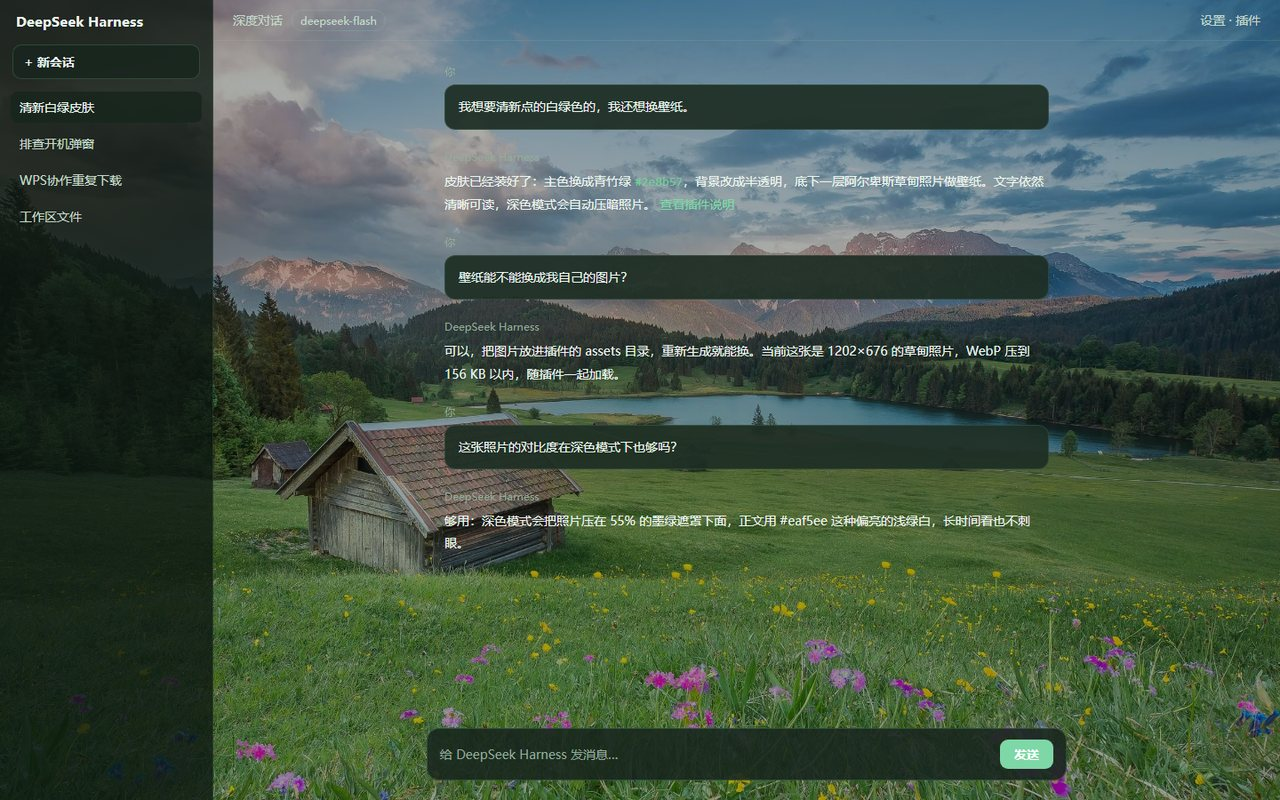
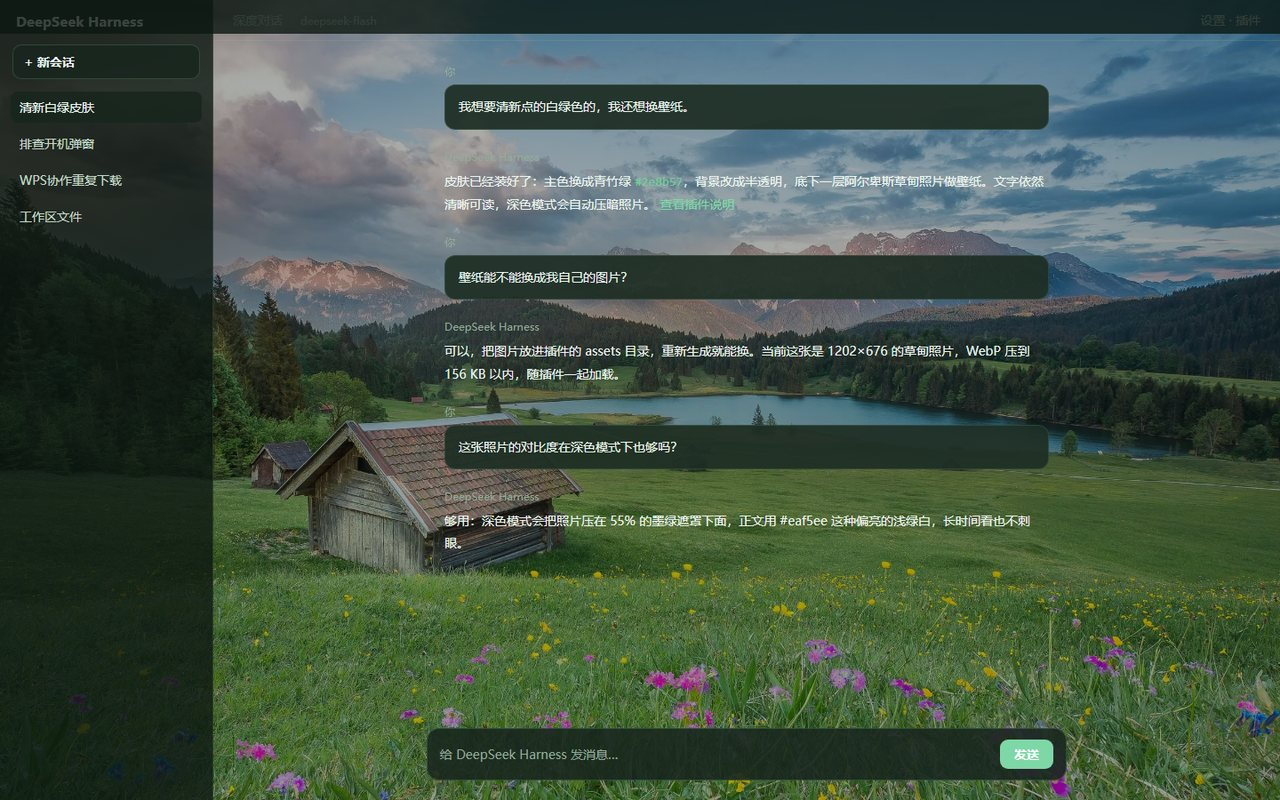
feat: 跟随系统配色 + 顶栏与侧栏同层磨砂 + 品牌字上色开关 (1.6.0)

Changed region(s): [[0.1562, 0.0, 1.0, 0.0625], [0.0, 0.0, 0.125, 0.0625]]

diff --git a/client.js b/client.js
@@ -94,6 +94,10 @@ body[data-ds-dark-theme] .fgw-video-veil { background: rgba(6,12,9,var(--fgw-vei
    own frosted panel so navigation text stays readable. */
 body[data-fresh-skin='on'] [class*='_sidebarCol'] { background: var(--fgw-sidebar, rgba(250,253,250,0.62)) !important; }
 body[data-ds-dark-theme][data-fresh-skin='on'] [class*='_sidebarCol'] { background: var(--fgw-sidebar, rgba(13,24,18,0.80)) !important; }
+/* Windows paints the titlebar strip from the sidebar fill, so the same tint keeps
+   the top bar and the sidebar reading as one surface instead of two panels. */
+body[data-fresh-skin='on'] [class*='_frame']::before { background: var(--fgw-sidebar, rgba(250,253,250,0.62)) !important; }
+body[data-ds-dark-theme][data-fresh-skin='on'] [class*='_frame']::before { background: var(--fgw-sidebar, rgba(13,24,18,0.80)) !important; }
 /* Brand marks: the home pixel whale is a canvas painted from its computed
    colour, the sidebar lockup is inline SVG — both follow the theme variables. */
 body[data-fresh-skin='on'] canvas[data-home-whale] {
@@ -104,16 +108,12 @@ body[data-fresh-skin='on'] [class*='_fish'] svg,
 body[data-fresh-skin='on'] [class*='_fish'] path {
   fill: var(--fgw-whale, currentColor) !important;
 }
-body[data-fresh-skin='on'] [class*='_brandMark'] svg,
-body[data-fresh-skin='on'] [class*='_brandMark'] path,
-body[data-fresh-skin='on'] [class*='_brandName'],
-body[data-fresh-skin='on'] [class*='_brandIdentity'],
-body[data-fresh-skin='on'] [class*='_titleGroup'] {
+/* Optional: tint the sidebar wordmark. Off by default — the lockup also carries
+   the HARNESS badge, which would be painted with the same colour and vanish. */
+body[data-fgw-brand-tint='on'] [class*='_brandName'],
+body[data-fgw-brand-tint='on'] [class*='_brandIdentity'],
+body[data-fgw-brand-tint='on'] [class*='_titleGroup'] {
   color: var(--fgw-brandtext, inherit) !important;
-}
-body[data-fresh-skin='on'] [class*='_brandMark'] svg path,
-body[data-fresh-skin='on'] [class*='_brandIdentity'] svg path {
-  fill: currentColor !important;
 }
 /* Quick-launch chips docked right above the composer. */
 .fgw-dock {
@@ -156,6 +156,7 @@ body[data-fresh-skin='on'] [class*='_brandIdentity'] svg path {
 .fgw-main { flex: 1; min-width: 0; }
 .fgw-title { font-size: 14px; line-height: 20px; }
 .fgw-actions { display: flex; flex-wrap: wrap; align-items: center; gap: 8px; }
+.fgw-inline { padding-left: 0; }
 .fgw-btn {
   font: inherit; font-size: 12px; line-height: 18px; padding: 5px 12px; border-radius: 8px;
   cursor: pointer; color: var(--dsw-alias-label-primary);
@@ -230,6 +231,15 @@ function withAlpha(color, alpha) {
   const g = parseInt(digits.slice(2, 4), 16)
   const b = parseInt(digits.slice(4, 6), 16)
   return `rgba(${r},${g},${b},${ratio})`
+}
+
+/** Pick readable text for the current wallpaper: dark on a light photo, light on
+    a dark one, so the "follow the system" palette never ends up unreadable. */
+function contrastText(darkMode) {
+  if (darkMode) return '#eef7f1'
+  const sample = runtime.derived && runtime.derived.sample
+  const luminance = sample ? Number(sample.luminance ?? sample.l ?? 0.82) : 0.82
+  return luminance > 0.52 ? '#0f1c14' : '#f4fbf6'
 }
 
 /** Palette for the quick-launch chips: derived from the wallpaper when possible. */
@@ -401,6 +411,7 @@ function defaults() {
     veil: DEFAULT_VEIL,
     autoVeil: false,
     palette: 'theme',
+    brandTint: false,
     colors: { brand: '', sidebar: '', bubble: '', text: '', whale: '', wordmark: '' },
     alpha: { sidebar: 62, bubble: 88 },
     chips: { enabled: true, items: [] },
@@ -469,6 +480,15 @@ function buildTokens(next) {
   const colors = next.colors || {}
   const alpha = next.alpha || {}
 
+  if (next.palette === 'system') {
+    // Follow whatever the host theme is: neutral frosted surfaces over the
+    // wallpaper and a text colour picked for contrast, no colour cast of ours.
+    tokens['--dsw-alias-bg-layer-1'] = { light: 'rgba(255,255,255,0.60)', dark: 'rgba(18,24,20,0.66)' }
+    tokens['--dsw-alias-bg-layer-2'] = { light: 'rgba(255,255,255,0.78)', dark: 'rgba(22,30,25,0.80)' }
+    tokens['--dsw-alias-bg-layer-3'] = { light: 'rgba(255,255,255,0.90)', dark: 'rgba(28,38,32,0.90)' }
+    tokens['--dsw-alias-label-primary'] = { light: contrastText(false), dark: '#eef7f1' }
+  }
+
   if (sample) {
     tokens['--dsw-alias-brand-primary'] = { light: sample.brand, dark: sample.brandDark }
     tokens['--dsw-alias-state-business-primary'] = { light: sample.brand, dark: sample.brandDark }
@@ -522,12 +542,14 @@ function applyState(next) {
 
   if (colors.whale) root.style.setProperty('--fgw-whale', colors.whale)
   else root.style.removeProperty('--fgw-whale')
-  if (colors.wordmark) root.style.setProperty('--fgw-brandtext', colors.wordmark)
+  if (next.brandTint && colors.wordmark) root.style.setProperty('--fgw-brandtext', colors.wordmark)
   else root.style.removeProperty('--fgw-brandtext')
 
   const body = document.body
   if (body) {
     body.dataset.freshSkin = 'on'
+    if (next.brandTint && colors.wordmark) body.dataset.fgwBrandTint = 'on'
+    else delete body.dataset.fgwBrandTint
     if (next.source.kind === 'video') body.dataset.fgwVideo = 'on'
     else delete body.dataset.fgwVideo
   }
@@ -629,7 +651,7 @@ function sampleSource(next) {
       analyzePixels(video).then((sample) => {
         runtime.sample = sample
         runtime.derived = paletteFromSample(sample)
-        if (state && (state.autoVeil || state.palette === 'image')) applyState(state)
+        if (state && (state.autoVeil || state.palette === 'image' || state.palette === 'system')) applyState(state)
       })
     }
     // Drawing a video before it has a frame yields black, so wait for data.
@@ -648,7 +670,7 @@ function sampleSource(next) {
     analyzePixels(image).then((sample) => {
       runtime.sample = sample
       runtime.derived = paletteFromSample(sample)
-      if (state && (state.autoVeil || state.palette === 'image')) applyState(state)
+      if (state && (state.autoVeil || state.palette === 'image' || state.palette === 'system')) applyState(state)
     })
   }
   image.src = url[1]
@@ -934,7 +956,9 @@ window.__ModuleLoader__.load({
         ),
       )
 
-      const colorEnabled = current.palette === 'custom'
+      // Any palette can be overridden channel by channel; only "跟随壁纸" owns the
+      // colours outright, so the swatches stay live everywhere else.
+      const colorEnabled = current.palette !== 'image'
 
       return h(
         'div',
@@ -987,12 +1011,13 @@ window.__ModuleLoader__.load({
         ),
         h(
           'div',
-          { className: 'fgw-line' },
-          h('span', { className: 'fgw-label' }, '配色'),
+          { className: 'fgw-line fgw-stack' },
           h(
             'div',
             { className: 'fgw-actions' },
+            h('span', { className: 'fgw-label' }, '配色'),
             ...[
+              ['system', '跟随系统'],
               ['theme', '默认绿'],
               ['image', '跟随壁纸'],
               ['custom', '自定义'],
@@ -1002,6 +1027,10 @@ window.__ModuleLoader__.load({
                 {
                   key: id,
                   className: `fgw-btn${current.palette === id ? ' primary' : ''}`,
+                  title:
+                    id === 'system'
+                      ? '用系统自带的浅/深色，只按壁纸明暗挑一个看得清的文字色'
+                      : undefined,
                   onClick: () => {
                     setState({ ...current, palette: id })
                     if (id === 'image') sampleSource(current)
@@ -1010,6 +1039,10 @@ window.__ModuleLoader__.load({
                 label,
               ),
             ),
+          ),
+          h(
+            'div',
+            { className: 'fgw-actions fgw-inline' },
             ...[
               ['brand', '主色'],
               ['sidebar', '侧栏'],
@@ -1091,11 +1124,21 @@ window.__ModuleLoader__.load({
           ),
           h(
             'label',
-            { className: 'fgw-toggle', title: '侧栏 deepseek HARNESS 字样' },
-            '品牌字',
+            { className: 'fgw-toggle', title: '给侧栏 deepseek HARNESS 字样着色（HARNESS 徽标会一起变色）' },
+            h('input', {
+              type: 'checkbox',
+              checked: Boolean(current.brandTint),
+              onChange: (event) => setState({ ...current, brandTint: event.target.checked }),
+            }),
+            '品牌字上色',
+          ),
+          h(
+            'label',
+            { className: 'fgw-toggle', title: '品牌字颜色（勾选上面才生效）' },
             h('input', {
               type: 'color',
               className: 'fgw-swatch',
+              disabled: !current.brandTint,
               value: current.colors.wordmark || '#0f1c14',
               onChange: (event) => setColors({ wordmark: event.target.value }),
             }),
@@ -1105,7 +1148,7 @@ window.__ModuleLoader__.load({
             {
               type: 'button',
               className: 'fgw-btn',
-              onClick: () => setColors({ whale: '', wordmark: '' }),
+              onClick: () => setState({ ...current, brandTint: false, colors: { ...current.colors, whale: '', wordmark: '' } }),
             },
             '跟随主题',
           ),

diff --git a/README.md b/README.md
@@ -8,8 +8,8 @@
 
 - 浅色 / 深色 / 跟随系统 三档照常可用，两套配色同时覆盖。
 - **壁纸**：内置 4K 照片随插件加载（AVIF 内联，约 713 KB，不联网、不依赖图床）；也可以**上传图片**（自动缩到最长边 1920 存成 JPEG）或**上传视频**（循环播放的动态壁纸，存进 IndexedDB）。
-- **透明度 0% = 壁纸完全显示，100% = 壁纸完全遮住**；勾上「跟随壁纸自动」则由照片亮度自动定一个既透又看得清的浓度。Windows 下应用外框也会真正让位给壁纸。
-- **配色三种来源**：默认绿 / 跟随壁纸（从画面平均色推出主色、气泡、文字）/ 自定义（主色、侧栏、气泡、文字分别取色，每个都能「取色」——点壁纸任意一点取那里的颜色）。发送按钮、链接、滑块等强调色都跟着主色走。
+- **透明度 0% = 壁纸完全显示，100% = 壁纸完全遮住**；勾上「跟随壁纸自动」则由照片亮度自动定一个既透又看得清的浓度。Windows 下应用外框会让位给壁纸，顶栏与侧栏共用同一层磨砂，不会出现两块颜色割裂。
+- **配色四种来源**：跟随系统（用宿主自带浅/深色，只按壁纸明暗挑一个看得清的文字色）/ 默认绿 / 跟随壁纸（从画面平均色推出主色、气泡、文字）/ 自定义。**任何模式下都能再单独改主色、侧栏、气泡、文字**，每个都能「取色」——点壁纸任意一点取那里的颜色。发送按钮、链接、滑块等强调色都跟着主色走。
 - **透光**：侧栏、气泡各有独立的不透明度滑块，选了自己喜欢的颜色也不会把壁纸整块糊掉；默认 62% / 88%。
 - **品牌色**：新会话页的大鲸鱼、侧栏 `deepseek HARNESS` 字样可以单独改色，也可以一键「跟随主题」。
 - **快捷条**：在输入框上方放一排首字母图标（颜色自选或从壁纸取色），点一下就把预设文字插进输入框；「插件 → 设置 → 通用 → 快捷条」里增删。
@@ -49,7 +49,7 @@ https://github.com/Kiki-trouvaille/dsh-fresh-green-skin
 
 - **换壁纸**：设置 → 通用 → 壁纸，点缩略图用内置照片，**上传图片**用自己的图，**上传视频**换成动态壁纸（点「视频」那块缩略图也能换）。
 - **调透明度**：同一行的滑块，0% 看整张照片、100% 只剩配色；勾「跟随壁纸自动」交给插件判断。
-- **改配色**：配色一行里选「默认绿 / 跟随壁纸 / 自定义」，选自定义后四个色块分别对应主色、侧栏、气泡、文字；每个色块旁的 **取色** 让你直接在壁纸上点一下取色。
+- **改配色**：配色一行里选「跟随系统 / 默认绿 / 跟随壁纸 / 自定义」；下面那行四个色块对应主色、侧栏、气泡、文字，任何模式下都能单独覆盖，每个色块旁的 **取色** 让你直接在壁纸上点一下取色。
 - **不让颜色糊住壁纸**：**透光** 一行里调侧栏、气泡的不透明度（越低越透）。底色太暗、透明度又很低时，建议把「文字」也顺手调亮/调深。
 - **品牌色**：**品牌** 一行可以单独改鲸鱼和 `deepseek HARNESS` 字样的颜色；点「跟随主题」还原。
 - **快捷条**：**快捷条** 一行勾上「在输入框上方显示」，点 **添加**，填名称和点图标时要插入的文字；颜色可以直接选，也可以 **取色** 从壁纸里点。保存的图标会出现在新会话输入框上方，点一下插入文字。

diff --git a/docs/DETAIL.md b/docs/DETAIL.md
@@ -16,12 +16,13 @@
 - **设置项**：注册到 `settings.general.item`（id `fresh-green-wallpaper`，order 20），分七行：
   1. 壁纸：画廊缩略图（内置图 / “我的图片” / “视频”块）+ 上传图片 / 上传视频 / 恢复默认
   2. 透明度：滑块 0–100%（默认 34%）+「跟随壁纸自动」
-  3. 配色：默认绿 / 跟随壁纸 / 自定义 + 主色 / 侧栏 / 气泡 / 文字四个取色器，每个带 **取色**（点壁纸取色）
+  3. 配色：跟随系统 / 默认绿 / 跟随壁纸 / 自定义（各占一行按钮），下一行是主色 / 侧栏 / 气泡 / 文字四个取色器，除「跟随壁纸」外任何模式都能单独覆盖，每个带 **取色**（点壁纸取色）；「跟随系统」用宿主浅/深色 + 按壁纸亮度自动挑文字色（`contrastText()`）
   4. 透光：侧栏 / 气泡不透明度（默认 62% / 88%），把用户挑的颜色变成 `rgba(h,alpha)`，不糊住壁纸
-  5. 品牌：鲸鱼 / 品牌字颜色（`--fgw-whale` / `--fgw-brandtext`），「跟随主题」清空
+  5. 品牌：鲸鱼颜色（`--fgw-whale`）+「品牌字上色」开关（开启才写 `--fgw-brandtext` 并给 `body` 打 `data-fgw-brand-tint`），「跟随主题」清空两者
   6. 快捷条：开关 + 条目列表（名称 / 插入文字 / 颜色 / 取色 / 删除）
   7. 字体与主题：字体下拉；名字输入 + 保存主题 + 已存主题按钮（`⌃⌥n`）+ `×` 删除
-- **品牌着色**：鲸鱼是宿主的 `<canvas data-home-whale>`，其 `fillStyle` 读自 `getComputedStyle(canvas).color`，所以 CSS 里把它 `filter: none` 并改 `color: var(--fgw-whale)`；侧栏字样走 `[class*='_brandName']` / `[class*='_brandIdentity']` 的 `color` 与 SVG `fill`。都属于“跟随宿主标记”的软着色。
+- **品牌着色**：鲸鱼是宿主的 `<canvas data-home-whale>`，其 `fillStyle` 读自 `getComputedStyle(canvas).color`，所以 CSS 里把它 `filter: none` 并改 `color: var(--fgw-whale)`；侧栏字样只在勾选「品牌字上色」时才写 `color`（`body[data-fgw-brand-tint='on'] [class*='_brandName']` 等），因为那组标记里同时包含 `HARNESS` 徽标，无条件染色会让徽标和背景同色而“消失”。两者都不替换宿主组件，属于软着色。
+- **顶栏与侧栏同层**：Windows 布局里标题栏条带 `[class*='_frame']::before` 与侧栏 `[class*='_sidebarCol']` 共用同一组背景来源，插件把两者都设成 `var(--fgw-sidebar, 磨砂白/深)`，所以顶部与侧栏是连续的一层，不会一边有色一边透明。
 - **快捷条 dock**：注册到 `conversation.input.dock`（id `fresh-green-chips`，order 5），渲染首字母圆角图标；点击时按 `[data-composer] textarea` → `textarea` → `[contenteditable]` 顺序找输入框，用 `setRangeText` + `input` 事件把文字插进去。
 - **快捷键**：`Ctrl+Alt+1…9` 应用第 n 套已存主题，`Ctrl+Alt+0` 恢复默认（`installShortcuts` 里监听 keydown，忽略带 Shift 的组合）。
 - **持久化**：
